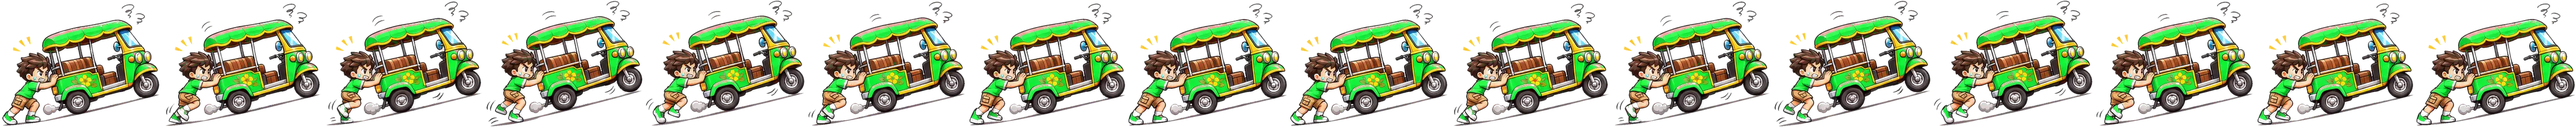
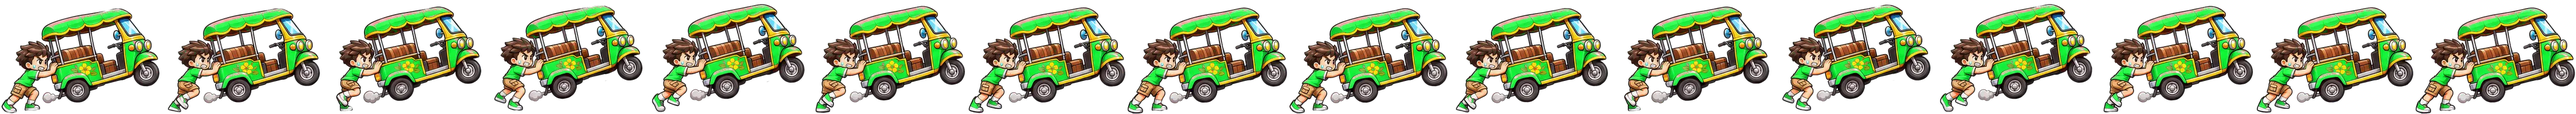
Push the tuk-tuk: use artist-cut alpha sprite sheets (clean edges)
Claude-Session: https://claude.ai/code/session_01NT2qrJy6Sx6CNpdimZkqu3

diff --git a/index.html b/index.html
@@ -173,7 +173,7 @@ svg.newrail .barrier{display:none}
 .pu-scene{position:absolute;inset:0;border-radius:11px;overflow:hidden;z-index:0;pointer-events:none}
 .pu-bg{position:absolute;max-width:none}
 .pu .fl-sig,.pu .fl-sub{text-shadow:0 0 6px #fff,0 0 3px #fff,0 2px 0 #fff}
-.pu-tuk{position:absolute;aspect-ratio:280/221;transform:translate(-62%,-92%) rotate(-28deg);transform-origin:62% 92%;transition:left .14s,top .14s;background-repeat:no-repeat;background-size:1600% 100%}
+.pu-tuk{position:absolute;aspect-ratio:280/200;transform:translate(-62%,-92%) rotate(-28deg);transform-origin:62% 92%;transition:left .14s,top .14s;background-repeat:no-repeat;background-size:1600% 100%}
 .pu-boost{position:absolute;width:150%;left:-95%;top:30%;opacity:0;transform:rotate(-8deg)}
 .pu-tuk.boost .pu-boost{animation:puBoost .6s ease-out}
 @keyframes puBoost{0%{opacity:1;transform:translateX(20%) scale(.6)}100%{opacity:0;transform:translateX(-25%) scale(1.1)}}
